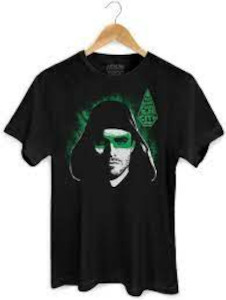
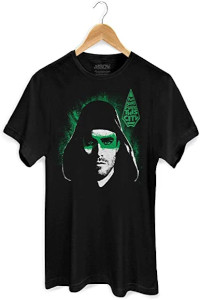
ajuste de imagem

diff --git a/index.html b/index.html
@@ -78,10 +78,10 @@
         <p class="texto-destaque-preco">Por: R$ 90,00</p><p class="texto-prod">ou 3x Sem juros de R$ 30,00.</p>
     </div>
     <div class="ajuste-produto">
-        <img class="img-prod3" src="imagens/produto3.jpg" alt="camiseta masculina"/>
+        <img class="img-prod" src="imagens/produto3.jpg" alt="camiseta masculina"/>
         <p class="texto-prod1">Camiseta Masculina Arrow You Have Failed This City</p>
         <p class="texto-destaque-preco">Por: R$ 69,90</p>
-        <p class="texto-prod">ou 3x Sem juros de R$ 23,30</p>
+        <p class="texto-prod">ou 3x Sem juros de R$ 23,30.</p>
     </div>
     </div>
     </figure>

diff --git a/style/media.css b/style/media.css
@@ -4,7 +4,7 @@
         width: 100%;
     }
 
-@media screen and (max-width: 770px){
+@media screen and (max-width: 820px){
 
     header {
         width: 100%;
@@ -66,16 +66,12 @@
     }
 
     .ajuste-produto {
-        width: 30%;
+        width: 28%;
         margin-right: 30px;
     }
 
     .img-prod {
         width: 100%;
-    }
-
-    .img-prod3 {
-        width: 112%;
     }
 
     .nav-footer {
